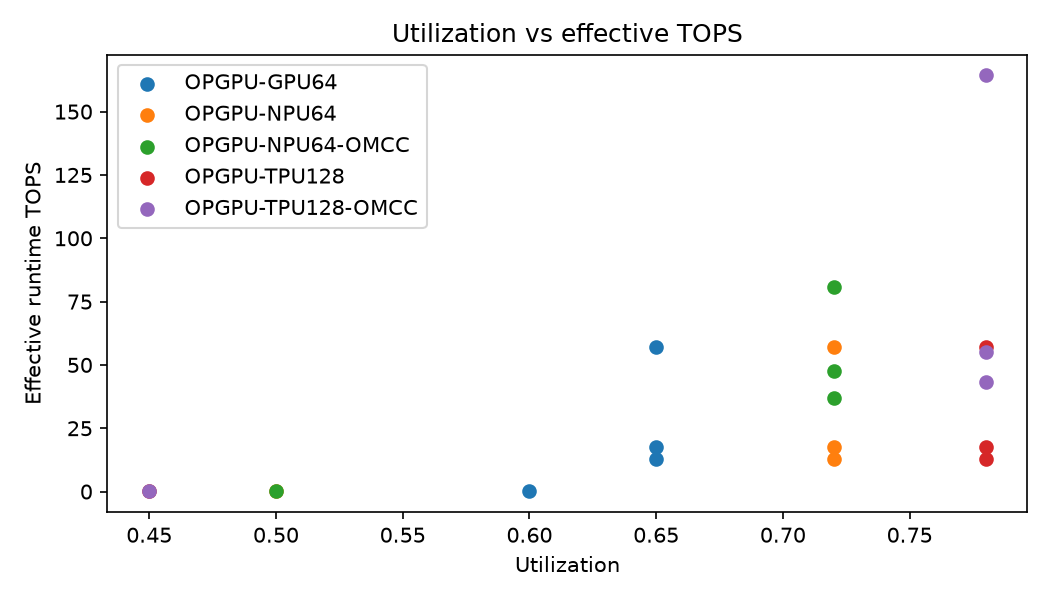
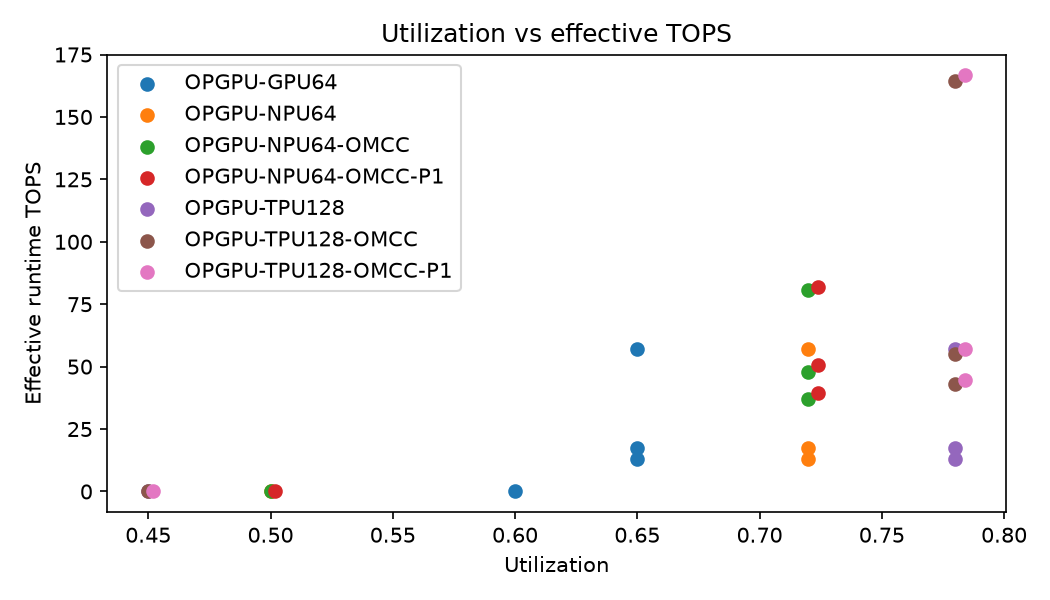
Integrate P1 PCM/thermal parameters into system simulation (v0.5.2 comparative data)

diff --git a/simulate_opgpu_system.py b/simulate_opgpu_system.py
@@ -1,9 +1,10 @@
 #!/usr/bin/env python3
-"""System-level simulation for OPGPU v0.5 (OpenCL-oriented optical GPU/NPU/TPU + OMCC).
+"""System-level simulation for OPGPU v0.5+ (OpenCL-oriented optical GPU/NPU/TPU + OMCC).
 
 Models conceptually: PCIe command/transfer flow, optical tile execution (MVM/MAC),
 memory hierarchy behavior (M0-M3), OMCC coprocessor effects (DMA/compute overlap,
-optical RAM arbitration, weight persistence and verification), and mode-dependent metrics.
+optical RAM arbitration, weight persistence and verification), and P1-calibrated
+PCM/thermal parameters (multilevel Sb2S3 cell IL/energy, thermal scheduling margins).
 Outputs JSON/CSV/Markdown and simple figures under outputs/ and figures/.
 
 This is a functional/performance *model*, not a wave-optics or signoff circuit sim.
@@ -58,6 +59,13 @@ class SystemConfig:
     omcc_verify_overhead: float = 0.0   # multiplicative overhead on programming for read-verify/RAS (e.g. 0.1 = +10%)
     m1_persistent: bool = False        # weights persist in M1 across invocations when they fit
     omcc_queue_overhead_ms: float = 0.0  # added queue/dispatch efficiency effect (modeled in queue sim)
+    # P1-calibrated PCM/thermal (from model_pcm_multilevel.py, model_thermal_brush.py)
+    pcm_bits: int = 5                  # multilevel cell resolution
+    pcm_il_db_avg: float = 0.12        # average insertion loss per PCM cell/segment (est.)
+    pcm_step_energy_pj: float = 0.0031 # estimated energy per level step (conceptual)
+    thermal_margin_c: float = 41.6     # estimated margin to VO2 threshold during Sb2S3 program
+    thermal_write_serialization: float = 1.0  # >1 adds scheduling/serialization overhead for thermal safety
+    pcm_calibrated: bool = False
 
 
 def ensure_dirs() -> None:
@@ -112,6 +120,12 @@ def mode_efficiency(cfg: SystemConfig, wl: Workload) -> float:
         base *= 0.7
     if wl.weight_bytes > cfg.m1_weight_gb * 1024**3:
         base *= 0.8
+    # P1-calibrated optical loss/capacity effects (small, conceptual)
+    if cfg.pcm_calibrated:
+        il_penalty = max(0.0, (cfg.pcm_il_db_avg - 0.12)) * 0.03
+        base *= max(0.9, 1.0 - il_penalty)
+        # higher multilevel density can slightly improve effective packing/utilization for stationary weights
+        base *= min(1.03, 1.0 + 0.005 * max(cfg.pcm_bits - 4, 0))
     return min(max(base, 0.05), 0.95)
 
 
@@ -139,7 +153,12 @@ def simulate_workload(cfg: SystemConfig, wl: Workload) -> Dict:
 
     in_ns = simulate_transfer(wl.bytes_in, bw, cfg.cmd_latency_ns + cfg.eo_oe_latency_ns)
     out_ns = simulate_transfer(wl.bytes_out, bw, cfg.cmd_latency_ns + cfg.eo_oe_latency_ns)
-    wt_ns = simulate_transfer(weight_transfer_bytes, bw, cfg.cmd_latency_ns)
+    wt_transfer_ns = simulate_transfer(weight_transfer_bytes, bw, cfg.cmd_latency_ns)
+    # programming/setup latency for M1 (amortized), thermally scheduled when calibrated
+    program_factor = (1.0 + cfg.omcc_verify_overhead) if cfg.omcc_enabled else 1.0
+    blocks = max(wl.weight_bytes / (1024 * 64), 1.0)
+    program_ns = (blocks * cfg.sb2s3_program_us * 1000.0 * cfg.thermal_write_serialization * program_factor) / program_reuse
+    wt_ns = wt_transfer_ns + (0.0 if persistent_hit else program_ns * 0.1)  # transfer-dominated; residual setup
 
     compute_ns = (wl.ops / (achieved_tops * 1e12)) * 1e9 if achieved_tops > 0 else float('inf')
     # control/switching overhead + OMCC arbitration
@@ -159,8 +178,11 @@ def simulate_workload(cfg: SystemConfig, wl: Workload) -> Dict:
     # Energy (very simplified)
     e_compute_pj = wl.ops/2.0 * cfg.energy_pj_per_mac  # per MAC
     e_pcie_pj = (wl.bytes_in + wl.bytes_out + weight_transfer_bytes) * cfg.energy_pj_per_byte_pcie
-    program_factor = (1.0 + cfg.omcc_verify_overhead) if cfg.omcc_enabled else 1.0
-    e_program_pj = (wl.weight_bytes / (1024*1024)) * cfg.energy_nj_per_m1_program * 1000.0 * program_factor / program_reuse
+    if cfg.pcm_calibrated:
+        weight_elements = wl.weight_bytes / 2.0  # assume 16-bit equiv element
+        e_program_pj = weight_elements * cfg.pcm_bits * cfg.pcm_step_energy_pj * program_factor / program_reuse
+    else:
+        e_program_pj = (wl.weight_bytes / (1024*1024)) * cfg.energy_nj_per_m1_program * 1000.0 * program_factor / program_reuse
     omcc_mgmt_pj = (wl.bytes_in + wl.bytes_out) * 0.2 if cfg.omcc_enabled else 0.0
     total_energy_uj = (e_compute_pj + e_pcie_pj + e_program_pj + omcc_mgmt_pj) / 1e6
 
@@ -170,6 +192,7 @@ def simulate_workload(cfg: SystemConfig, wl: Workload) -> Dict:
         "config": cfg.name,
         "mode": cfg.mode,
         "omcc": cfg.omcc_enabled,
+        "pcm_calibrated": cfg.pcm_calibrated,
         "workload": wl.name,
         "peak_tops": round(peak, 3),
         "utilization": round(eff, 3),
@@ -180,6 +203,8 @@ def simulate_workload(cfg: SystemConfig, wl: Workload) -> Dict:
         "energy_uj": round(total_energy_uj, 3),
         "bottleneck": bottleneck(exposed_in_ns, exposed_out_ns, exposed_wt_ns, compute_phase_ns, arbitration_ns),
         "m1_persistent_hit": persistent_hit,
+        "pcm_bits": cfg.pcm_bits,
+        "thermal_margin_c": cfg.thermal_margin_c,
     }
 
 
@@ -247,11 +272,12 @@ def write_outputs(configs: List[SystemConfig], results: List[Dict], queue: Dict)
         "avg_runtime_tops_by_mode": {m: round(statistics.mean(v), 3) for m, v in by_mode.items()},
         "queue": queue,
         "notes": [
-            "Conceptual system model v0.5 (not wave-optics/signoff).",
+            "Conceptual system model v0.5+ (not wave-optics/signoff).",
             "Optical compute assumes effective MAC rates, WDM, and mode-dependent utilization.",
             "Memory hierarchy mapped as M0 Espiropirano, M1 Sb2S3, M2 VO2, M3 Azobenceno/delay.",
             "PCIe/OpenCL flow modeled as descriptor DMA + doorbell + microsequencer + O/E completion.",
             "OMCC models DMA/compute overlap, optical RAM arbitration, M1 weight persistence, and verify/RAS overhead.",
+            "P1-calibrated configs use PCM multilevel/IL and thermal scheduling parameters from model_pcm_multilevel.py and model_thermal_brush.py.",
         ],
     }
     with open(os.path.join(OUT_DIR, "opgpu_system_sim_summary.json"), "w", encoding="utf-8") as f:
@@ -261,13 +287,15 @@ def write_outputs(configs: List[SystemConfig], results: List[Dict], queue: Dict)
     q_base = queue.get("baseline", queue)
     q_omcc = queue.get("omcc", queue)
     lines = [
-        "# OPGPU v0.5 System Simulation Report (with OMCC)",
+        "# OPGPU v0.5+ System Simulation Report (OMCC + P1-calibrated PCM/thermal)",
         "",
         "## Configurations",
     ]
     for c in configs:
         omcc = "on" if getattr(c, "omcc_enabled", False) else "off"
-        lines.append(f"- **{c.name} ({c.mode}, OMCC {omcc})**: peak {peak_tops(c):.2f} TOPS, PCIe {pcie_bandwidth_gbps(c):.2f} GB/s eff, tiles {c.tiles}, WDM {c.wdm_channels}, M1 {c.m1_weight_gb} GB, M2 {c.m2_buffer_mb} MB")
+        p1 = "on" if getattr(c, "pcm_calibrated", False) else "off"
+        extra = f", PCM {getattr(c,'pcm_bits',5)}b IL {getattr(c,'pcm_il_db_avg',0.12):.3f}dB margin {getattr(c,'thermal_margin_c',0):.1f}C" if p1=="on" else ""
+        lines.append(f"- **{c.name} ({c.mode}, OMCC {omcc}, P1 {p1}{extra})**: peak {peak_tops(c):.2f} TOPS, PCIe {pcie_bandwidth_gbps(c):.2f} GB/s eff, tiles {c.tiles}, WDM {c.wdm_channels}, M1 {c.m1_weight_gb} GB, M2 {c.m2_buffer_mb} MB")
     lines += ["", "## OpenCL queue model",
               f"- baseline: avg queue {q_base['avg_queue_ms']:.3f} ms, p95 {q_base['p95_queue_ms']:.3f} ms, avg turnaround {q_base['avg_turnaround_ms']:.3f} ms, makespan {q_base['makespan_ms']:.3f} ms",
               f"- OMCC: avg queue {q_omcc['avg_queue_ms']:.3f} ms, p95 {q_omcc['p95_queue_ms']:.3f} ms, avg turnaround {q_omcc['avg_turnaround_ms']:.3f} ms, makespan {q_omcc['makespan_ms']:.3f} ms",
@@ -276,8 +304,8 @@ def write_outputs(configs: List[SystemConfig], results: List[Dict], queue: Dict)
         lines.append(f"- {r['config']}/{r['workload']}: latency {r['latency_ms']:.4f} ms, util {r['utilization']}, runtime TOPS {r['runtime_tops_effective']}, energy {r['energy_uj']} uJ, bottleneck {r['bottleneck']}, M1_persist {r.get('m1_persistent_hit', False)}")
     lines += ["", "## Interpretation",
               "- OMCC overlap/prefetch and M1 weight persistence reduce exposed transfer/programming overhead, improving effective TOPS and latency on reuse-heavy workloads.",
-              "- Low-intensity or non-persistent cases remain limited by transfers/control; arbitration/verification add small overheads but enable RAS and correctness.",
-              "- NPU/TPU modes benefit most when weights are stationary in optical RAM (M1) and pipelines are kept full via OMCC scheduling."]
+              "- P1-calibrated configs incorporate PCM multilevel/IL and thermal scheduling margins (from P1 modeling), showing the performance/energy envelope under thermally-aware operation.",
+              "- Low-intensity or non-persistent cases remain limited by transfers/control; arbitration/verification add small overheads but enable RAS and correctness."]
     with open(os.path.join(OUT_DIR, "opgpu_system_sim_report.md"), "w", encoding="utf-8") as f:
         f.write("\n".join(lines) + "\n")
 
@@ -328,6 +356,12 @@ def main() -> None:
                      omcc_enabled=True, prefetch_overlap=0.7, output_overlap=0.5, omcc_arbitration_ns=35.0, omcc_verify_overhead=0.08, m1_persistent=True),
         SystemConfig(name="OPGPU-TPU128-OMCC", mode="TPU", tiles=128, macs_per_tile_per_cycle=8192, wdm_channels=8, energy_pj_per_mac=0.48,
                      omcc_enabled=True, prefetch_overlap=0.75, output_overlap=0.55, omcc_arbitration_ns=40.0, omcc_verify_overhead=0.08, m1_persistent=True),
+        SystemConfig(name="OPGPU-NPU64-OMCC-P1", mode="NPU", tiles=64, macs_per_tile_per_cycle=4096, wdm_channels=8, energy_pj_per_mac=0.57,
+                     omcc_enabled=True, prefetch_overlap=0.72, output_overlap=0.52, omcc_arbitration_ns=38.0, omcc_verify_overhead=0.10, m1_persistent=True,
+                     pcm_calibrated=True, pcm_bits=5, pcm_il_db_avg=0.123, pcm_step_energy_pj=0.0031, thermal_margin_c=41.6, thermal_write_serialization=1.15),
+        SystemConfig(name="OPGPU-TPU128-OMCC-P1", mode="TPU", tiles=128, macs_per_tile_per_cycle=8192, wdm_channels=8, energy_pj_per_mac=0.47,
+                     omcc_enabled=True, prefetch_overlap=0.76, output_overlap=0.56, omcc_arbitration_ns=42.0, omcc_verify_overhead=0.10, m1_persistent=True,
+                     pcm_calibrated=True, pcm_bits=5, pcm_il_db_avg=0.123, pcm_step_energy_pj=0.0031, thermal_margin_c=41.6, thermal_write_serialization=1.15),
     ]
     workloads = example_workloads()
     results = []

diff --git a/outputs/opgpu_system_sim_report.md b/outputs/opgpu_system_sim_report.md
@@ -1,39 +1,49 @@
-# OPGPU v0.5 System Simulation Report (with OMCC)
+# OPGPU v0.5+ System Simulation Report (OMCC + P1-calibrated PCM/thermal)
 
 ## Configurations
-- **OPGPU-GPU64 (GPU, OMCC off)**: peak 8388.61 TOPS, PCIe 48.00 GB/s eff, tiles 64, WDM 8, M1 2.0 GB, M2 64.0 MB
-- **OPGPU-NPU64 (NPU, OMCC off)**: peak 8388.61 TOPS, PCIe 48.00 GB/s eff, tiles 64, WDM 8, M1 2.0 GB, M2 64.0 MB
-- **OPGPU-TPU128 (TPU, OMCC off)**: peak 33554.43 TOPS, PCIe 48.00 GB/s eff, tiles 128, WDM 8, M1 2.0 GB, M2 64.0 MB
-- **OPGPU-NPU64-OMCC (NPU, OMCC on)**: peak 8388.61 TOPS, PCIe 48.00 GB/s eff, tiles 64, WDM 8, M1 2.0 GB, M2 64.0 MB
-- **OPGPU-TPU128-OMCC (TPU, OMCC on)**: peak 33554.43 TOPS, PCIe 48.00 GB/s eff, tiles 128, WDM 8, M1 2.0 GB, M2 64.0 MB
+- **OPGPU-GPU64 (GPU, OMCC off, P1 off)**: peak 8388.61 TOPS, PCIe 48.00 GB/s eff, tiles 64, WDM 8, M1 2.0 GB, M2 64.0 MB
+- **OPGPU-NPU64 (NPU, OMCC off, P1 off)**: peak 8388.61 TOPS, PCIe 48.00 GB/s eff, tiles 64, WDM 8, M1 2.0 GB, M2 64.0 MB
+- **OPGPU-TPU128 (TPU, OMCC off, P1 off)**: peak 33554.43 TOPS, PCIe 48.00 GB/s eff, tiles 128, WDM 8, M1 2.0 GB, M2 64.0 MB
+- **OPGPU-NPU64-OMCC (NPU, OMCC on, P1 off)**: peak 8388.61 TOPS, PCIe 48.00 GB/s eff, tiles 64, WDM 8, M1 2.0 GB, M2 64.0 MB
+- **OPGPU-TPU128-OMCC (TPU, OMCC on, P1 off)**: peak 33554.43 TOPS, PCIe 48.00 GB/s eff, tiles 128, WDM 8, M1 2.0 GB, M2 64.0 MB
+- **OPGPU-NPU64-OMCC-P1 (NPU, OMCC on, P1 on, PCM 5b IL 0.123dB margin 41.6C)**: peak 8388.61 TOPS, PCIe 48.00 GB/s eff, tiles 64, WDM 8, M1 2.0 GB, M2 64.0 MB
+- **OPGPU-TPU128-OMCC-P1 (TPU, OMCC on, P1 on, PCM 5b IL 0.123dB margin 41.6C)**: peak 33554.43 TOPS, PCIe 48.00 GB/s eff, tiles 128, WDM 8, M1 2.0 GB, M2 64.0 MB
 
 ## OpenCL queue model
 - baseline: avg queue 8.214 ms, p95 16.369 ms, avg turnaround 8.888 ms, makespan 23.172 ms
 - OMCC: avg queue 6.156 ms, p95 12.422 ms, avg turnaround 6.725 ms, makespan 18.841 ms
 
 ## Workload results
-- OPGPU-GPU64/GEMV_4k: latency 0.6522 ms, util 0.6, runtime TOPS 0.051, energy 283.588 uJ, bottleneck weight_transfer, M1_persist False
-- OPGPU-GPU64/GEMM_1024: latency 0.1230 ms, util 0.65, runtime TOPS 17.466, energy 909.342 uJ, bottleneck input_transfer, M1_persist False
-- OPGPU-GPU64/Conv_infer_batch1: latency 0.0212 ms, util 0.65, runtime TOPS 57.018, energy 491.573 uJ, bottleneck input_transfer, M1_persist False
-- OPGPU-GPU64/Attention_block: latency 0.0416 ms, util 0.65, runtime TOPS 12.909, energy 231.55 uJ, bottleneck input_transfer, M1_persist False
-- OPGPU-NPU64/GEMV_4k: latency 0.6522 ms, util 0.5, runtime TOPS 0.051, energy 280.233 uJ, bottleneck weight_transfer, M1_persist False
-- OPGPU-NPU64/GEMM_1024: latency 0.1230 ms, util 0.72, runtime TOPS 17.466, energy 694.593 uJ, bottleneck input_transfer, M1_persist False
-- OPGPU-NPU64/Conv_infer_batch1: latency 0.0212 ms, util 0.72, runtime TOPS 57.018, energy 370.777 uJ, bottleneck input_transfer, M1_persist False
-- OPGPU-NPU64/Attention_block: latency 0.0416 ms, util 0.72, runtime TOPS 12.909, energy 177.863 uJ, bottleneck input_transfer, M1_persist False
-- OPGPU-TPU128/GEMV_4k: latency 0.6522 ms, util 0.45, runtime TOPS 0.051, energy 278.555 uJ, bottleneck weight_transfer, M1_persist False
-- OPGPU-TPU128/GEMM_1024: latency 0.1230 ms, util 0.78, runtime TOPS 17.466, energy 587.219 uJ, bottleneck input_transfer, M1_persist False
-- OPGPU-TPU128/Conv_infer_batch1: latency 0.0212 ms, util 0.78, runtime TOPS 57.018, energy 310.379 uJ, bottleneck input_transfer, M1_persist False
-- OPGPU-TPU128/Attention_block: latency 0.0416 ms, util 0.78, runtime TOPS 12.909, energy 151.02 uJ, bottleneck input_transfer, M1_persist False
-- OPGPU-NPU64-OMCC/GEMV_4k: latency 0.1958 ms, util 0.5, runtime TOPS 0.171, energy 280.029 uJ, bottleneck weight_transfer, M1_persist False
+- OPGPU-GPU64/GEMV_4k: latency 1.6762 ms, util 0.6, runtime TOPS 0.02, energy 283.588 uJ, bottleneck weight_transfer, M1_persist False
+- OPGPU-GPU64/GEMM_1024: latency 0.1230 ms, util 0.65, runtime TOPS 17.457, energy 909.342 uJ, bottleneck input_transfer, M1_persist False
+- OPGPU-GPU64/Conv_infer_batch1: latency 0.0212 ms, util 0.65, runtime TOPS 57.015, energy 491.573 uJ, bottleneck input_transfer, M1_persist False
+- OPGPU-GPU64/Attention_block: latency 0.0417 ms, util 0.65, runtime TOPS 12.88, energy 231.55 uJ, bottleneck input_transfer, M1_persist False
+- OPGPU-NPU64/GEMV_4k: latency 1.6762 ms, util 0.5, runtime TOPS 0.02, energy 280.233 uJ, bottleneck weight_transfer, M1_persist False
+- OPGPU-NPU64/GEMM_1024: latency 0.1230 ms, util 0.72, runtime TOPS 17.457, energy 694.593 uJ, bottleneck input_transfer, M1_persist False
+- OPGPU-NPU64/Conv_infer_batch1: latency 0.0212 ms, util 0.72, runtime TOPS 57.015, energy 370.777 uJ, bottleneck input_transfer, M1_persist False
+- OPGPU-NPU64/Attention_block: latency 0.0417 ms, util 0.72, runtime TOPS 12.88, energy 177.863 uJ, bottleneck input_transfer, M1_persist False
+- OPGPU-TPU128/GEMV_4k: latency 1.6762 ms, util 0.45, runtime TOPS 0.02, energy 278.555 uJ, bottleneck weight_transfer, M1_persist False
+- OPGPU-TPU128/GEMM_1024: latency 0.1230 ms, util 0.78, runtime TOPS 17.457, energy 587.219 uJ, bottleneck input_transfer, M1_persist False
+- OPGPU-TPU128/Conv_infer_batch1: latency 0.0212 ms, util 0.78, runtime TOPS 57.015, energy 310.379 uJ, bottleneck input_transfer, M1_persist False
+- OPGPU-TPU128/Attention_block: latency 0.0417 ms, util 0.78, runtime TOPS 12.88, energy 151.02 uJ, bottleneck input_transfer, M1_persist False
+- OPGPU-NPU64-OMCC/GEMV_4k: latency 0.5275 ms, util 0.5, runtime TOPS 0.064, energy 280.029 uJ, bottleneck weight_transfer, M1_persist False
 - OPGPU-NPU64-OMCC/GEMM_1024: latency 0.0450 ms, util 0.72, runtime TOPS 47.712, energy 674.377 uJ, bottleneck input_transfer, M1_persist True
 - OPGPU-NPU64-OMCC/Conv_infer_batch1: latency 0.0149 ms, util 0.72, runtime TOPS 80.882, energy 358.907 uJ, bottleneck optical_compute, M1_persist True
 - OPGPU-NPU64-OMCC/Attention_block: latency 0.0145 ms, util 0.72, runtime TOPS 37.043, energy 172.914 uJ, bottleneck input_transfer, M1_persist True
-- OPGPU-TPU128-OMCC/GEMV_4k: latency 0.1631 ms, util 0.45, runtime TOPS 0.206, energy 278.351 uJ, bottleneck weight_transfer, M1_persist False
+- OPGPU-TPU128-OMCC/GEMV_4k: latency 0.4396 ms, util 0.45, runtime TOPS 0.076, energy 278.351 uJ, bottleneck weight_transfer, M1_persist False
 - OPGPU-TPU128-OMCC/GEMM_1024: latency 0.0389 ms, util 0.78, runtime TOPS 55.238, energy 567.002 uJ, bottleneck input_transfer, M1_persist True
 - OPGPU-TPU128-OMCC/Conv_infer_batch1: latency 0.0074 ms, util 0.78, runtime TOPS 164.336, energy 298.509 uJ, bottleneck output_transfer, M1_persist True
 - OPGPU-TPU128-OMCC/Attention_block: latency 0.0124 ms, util 0.78, runtime TOPS 43.195, energy 146.07 uJ, bottleneck input_transfer, M1_persist True
+- OPGPU-NPU64-OMCC-P1/GEMV_4k: latency 0.5454 ms, util 0.502, runtime TOPS 0.062, energy 278.419 uJ, bottleneck weight_transfer, M1_persist False
+- OPGPU-NPU64-OMCC-P1/GEMM_1024: latency 0.0426 ms, util 0.724, runtime TOPS 50.462, energy 663.639 uJ, bottleneck input_transfer, M1_persist True
+- OPGPU-NPU64-OMCC-P1/Conv_infer_batch1: latency 0.0147 ms, util 0.724, runtime TOPS 82.021, energy 352.867 uJ, bottleneck optical_compute, M1_persist True
+- OPGPU-NPU64-OMCC-P1/Attention_block: latency 0.0137 ms, util 0.724, runtime TOPS 39.281, energy 170.229 uJ, bottleneck input_transfer, M1_persist True
+- OPGPU-TPU128-OMCC-P1/GEMV_4k: latency 0.4675 ms, util 0.452, runtime TOPS 0.072, energy 276.741 uJ, bottleneck weight_transfer, M1_persist False
+- OPGPU-TPU128-OMCC-P1/GEMM_1024: latency 0.0377 ms, util 0.784, runtime TOPS 57.038, energy 556.265 uJ, bottleneck input_transfer, M1_persist True
+- OPGPU-TPU128-OMCC-P1/Conv_infer_batch1: latency 0.0072 ms, util 0.784, runtime TOPS 166.669, energy 292.469 uJ, bottleneck output_transfer, M1_persist True
+- OPGPU-TPU128-OMCC-P1/Attention_block: latency 0.0120 ms, util 0.784, runtime TOPS 44.679, energy 143.386 uJ, bottleneck input_transfer, M1_persist True
 
 ## Interpretation
 - OMCC overlap/prefetch and M1 weight persistence reduce exposed transfer/programming overhead, improving effective TOPS and latency on reuse-heavy workloads.
+- P1-calibrated configs incorporate PCM multilevel/IL and thermal scheduling margins (from P1 modeling), showing the performance/energy envelope under thermally-aware operation.
 - Low-intensity or non-persistent cases remain limited by transfers/control; arbitration/verification add small overheads but enable RAS and correctness.
-- NPU/TPU modes benefit most when weights are stationary in optical RAM (M1) and pipelines are kept full via OMCC scheduling.

diff --git a/CHANGELOG.md b/CHANGELOG.md
@@ -1,5 +1,10 @@
 # Changelog
 
+## [v0.5.2-research] - Integración P1 en simulación de sistema (2026-11-17)
+### Added
+- Integración de parámetros P1-calibrados (PCM multinivel/IL/energía, márgenes térmicos y serialización de escritura) en `simulate_opgpu_system.py`, con configuraciones comparativas `*-OMCC-P1` y resultados actualizados en `outputs/opgpu_system_*` y `figures/opgpu_system_*`.
+- Perfil de desempeño/energía bajo operación térmicamente consciente (OMCC + persistencia M1 + calibración PCM), usado como respaldo de dimensionamiento.
+
 ## [v0.5.1-research] - Modelado P1 con datos de respaldo (2026-11-17)
 ### Added
 - `hardware/p1-modeling-data.md`: resultados y análisis del modelado P1 (PCM Sb₂S₃ multinivel segmentado/tapered y térmica transitoria/diafonía 68 °C/300 °C en arreglo cepillo).
